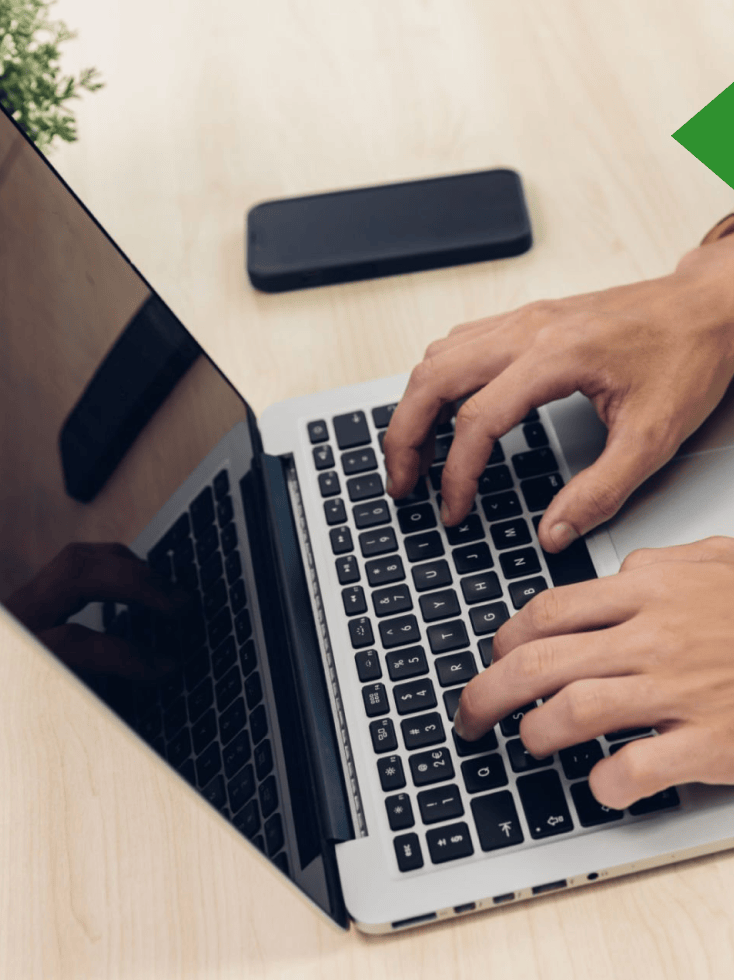
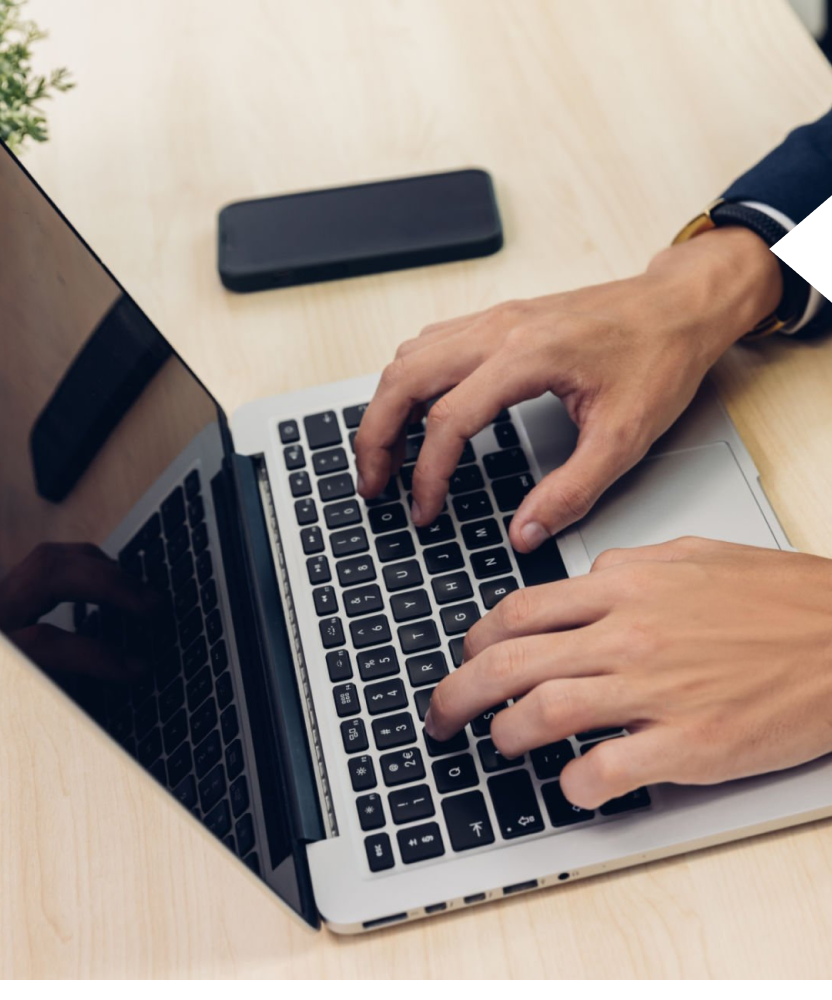
scenario 02 recheck

diff --git a/src/page-4.html b/src/page-4.html
@@ -35,12 +35,12 @@
           />
           <!-- Text Content -->
           <div
-            class="absolute xl-zoom:top-[15%] lg-zoom:top-[15%] xl-zoom:right-[50%] lg-zoom:right-[45%]"
+            class="absolute xl-zoom:top-[15%] lg-zoom:top-[15%] xl-zoom:right-[38%%] lg-zoom:right-[40%]"
           >
             <div class="relative w-auto mx-auto">
               <div
                 data-aos="fade-left"
-                class="bg-[#8BBD86] xl-zoom:pl-[103px] pl-[90px] py-[4rem] xl-zoom:pr-[14rem] pr-[10rem] rounded-[3.75rem] h-fit relative w-fit"
+                class="bg-[#8BBD86] xl-zoom:pl-[100px] pl-[90px] xl-zoom:pt-[6.75rem] pt-[5.75rem] pb-[3.5rem] xl-zoom:pr-[14rem] pr-[10rem] rounded-[3.75rem] h-fit relative w-fit"
               >
                 <div class="w-full">
                   <div class="xl-zoom:mb-[80px] mb-[40px] xl-zoom:pt-[13px]">
@@ -57,10 +57,10 @@
 
                   <button
                     onclick="loadPage('./page-5.html')"
-                    class="btn w-fit absolute xl-zoom:-bottom-[6%] -bottom-[8%] z-[1000]"
+                    class="btn xl-zoom:w-[235px] lg-zoom:w-[176.25px] xl-zoom:h-[60px] lg-zoom:h-[45px] absolute xl-zoom:-bottom-[6%] -bottom-[6%] z-[1000]"
                     type="button"
                   >
-                    <span>Let’s Go</span>
+                    <span class="text-nowrap lg-zoom:text-[20px]">Let’s Go</span>
                     <img src="../assets/icons/arrow.svg" alt="" />
                   </button>
                 </div>

diff --git a/src/page-10.html b/src/page-10.html
@@ -11,7 +11,7 @@
       /> -->
       <div
         data-aos="fade-down"
-        class="h-[93.42vh] flex justify-center flex-col px-[100px]"
+        class="h-[93.42vh] flex justify-center flex-col pl-[100px]"
       >
         <div class="flex flex-col items-start gap-1 mb-[20px]">
           <div class="mb-[20px]">
@@ -24,7 +24,7 @@
           </h1>
         </div>
         <p
-          class="text-[#004F9F] font-medium text-[22px] text-justify xl-zoom:leading-[32px] lg-zoom:leading-[24px]"
+          class="text-[#004F9F] font-medium xl-zoom:text-[22px] lg-zoom:text-[16.5px] text-justify xl-zoom:leading-[32px] lg-zoom:leading-[24px]"
         >
         Access controls are essential for protecting company data. Shakib
         breached the Acceptable Use of Technology policy by sharing Vortex’s
@@ -70,7 +70,7 @@
       onclick="loadPage('./page-1.html')"
       data-aos="fade-left"
     >
-      <img src="../assets/icons/badge2.svg" class="" alt="" />
+      <img src="../assets/icons/scenario02-badge.svg" class="" alt="" />
     </div>
 
     <img

diff --git a/src/page-9.html b/src/page-9.html
@@ -11,7 +11,7 @@
       /> -->
       <div
         data-aos="fade-down"
-        class="h-[93.42vh] flex justify-center flex-col px-[100px]"
+        class="h-[93.42vh] flex justify-center flex-col pl-[100px]"
       >
         <div class="flex flex-col items-start gap-1 mb-[20px]">
           <div class="mb-[20px]">
@@ -24,7 +24,7 @@
           </h1>
         </div>
         <p
-          class="text-[#004F9F] font-medium text-[22px] xl-zoom:leading-[32px] lg-zoom:leading-[24px] text-justify"
+          class="text-[#004F9F] font-medium xl-zoom:text-[22px] lg-zoom:text-[16.5px] xl-zoom:leading-[32px] lg-zoom:leading-[24px] text-justify"
         >
         Maliha’s line manager should have fully off boarded her, including
         revoking access to IT systems and retrieving all company equipment.

diff --git a/src/input.css b/src/input.css
@@ -35,7 +35,7 @@
   @apply bg-blue text-white  rounded-[10px] py-[10px] px-[40px] max-w-[235px] w-full flex items-center gap-2 justify-center hover:shadow-lg hover:scale-105 transition-all duration-200;
 }
 .mcq {
-  @apply flex items-center justify-between  bg-white transition-all duration-300 cursor-pointer px-[2.2rem] xl-zoom:py-5 py-4 rounded-[15px] shadow-md;
+  @apply flex items-center justify-between  bg-white transition-all duration-300 cursor-pointer pl-[2rem] pr-[1.25rem] xl-zoom:py-5 py-4 rounded-[15px] shadow-md;
 }
 .mcq div {
 }

diff --git a/src/page-5.html b/src/page-5.html
@@ -39,8 +39,8 @@
   </p></div>
   
   <div class="grid grid-cols-2 gap-[100px] h-[calc(85vh-105px)] xl-zoom:mt-[75px] mt-[50px]">
-    <div class="col-span-1 pt-[50px]">
-      <div class="flex flex-col gap-[3rem] text-white">
+    <div class="col-span-1 pt-[40px]">
+      <div class="flex flex-col gap-[1.25rem] text-white">
         <p
           class="xl-zoom:text-[22px] lg-zoom:text-[16.5px] font-medium xl-zoom:leading-[32px] lg-zoom:leading-[24px] -mt-5"
           data-aos="fade-up"

diff --git a/src/index.html b/src/index.html
@@ -46,7 +46,7 @@
           .catch((error) => console.log("Error loading page:", error));
         return newDocument;
       }
-      loadPage("./page-10.html");
+      loadPage("./page-5.html");
     </script>
   </head>
   <body class="">

diff --git a/src/page-8.html b/src/page-8.html
@@ -79,7 +79,7 @@
               />
             </svg>
           </span>
-          Select the icon to learn more
+          Select the first icon to learn more
         </p>
       </div>
     </div>
